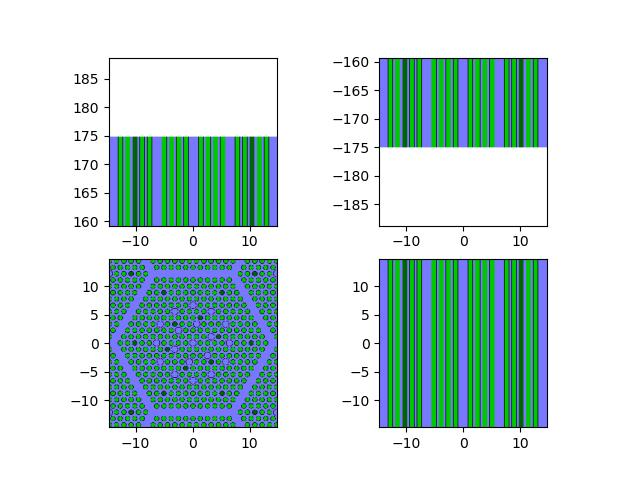
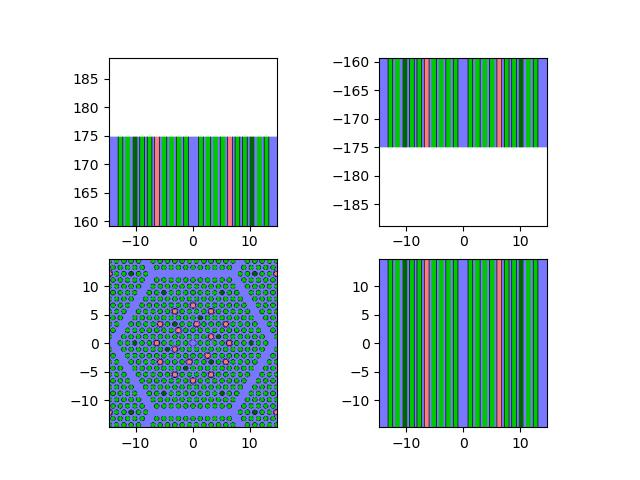
absorber added

diff --git a/models/utils/geometry.py b/models/utils/geometry.py
@@ -3,37 +3,48 @@ from math import sqrt
 import openmc
 import numpy as np
 
-from .material import fuel_mat, cladding_mat, water_mat, fuel_with_Gd_mat
+from .material import fuel_mat, cladding_mat, water_mat, fuel_with_Gd_mat, absorber_mat
 from .params import GeometryParams
+
 p = GeometryParams()
 
 # Surfaces
 fuel_surf = openmc.ZCylinder(r=p.tvel_fuel_radius)
 cladding_surf = openmc.ZCylinder(r=p.tvel_global_radius)
-water_surf = openmc.hexagonal_prism(edge_length=p.tvel_step/sqrt(3), orientation='y',boundary_type='transmission' )
+water_surf = openmc.hexagonal_prism(edge_length=p.tvel_step / sqrt(3), orientation='y', boundary_type='transmission')
 
-tube_inner_surf=openmc.ZCylinder(r=p.tube_inner_radius)
-tube_outer_surf=openmc.ZCylinder(r=p.tube_outer_radius)
+tube_inner_surf = openmc.ZCylinder(r=p.tube_inner_radius)
+tube_outer_surf = openmc.ZCylinder(r=p.tube_outer_radius)
+
+abs_rod_inner_surf = openmc.ZCylinder(r=p.absorber_rod_inner_radius)
+abs_rod_outer_surf = openmc.ZCylinder(r=p.absorber_rod_outer_radius)
 
 top_surf = openmc.ZPlane(z0=p.tvel_heigh / 2)
 bottom_surf = openmc.ZPlane(z0=-p.tvel_heigh / 2)
 
-TVS_hex_lat_surf = openmc.hexagonal_prism(edge_length=p.TVS_edge_length, orientation=p.orientation, boundary_type='transmission')
+TVS_hex_lat_surf = openmc.hexagonal_prism(edge_length=p.TVS_edge_length, orientation=p.orientation,
+                                          boundary_type='transmission')
 
-hex_lat_surf_1 = openmc.hexagonal_prism(edge_length=p.TVS_edge_length, orientation=p.orientation, boundary_type='vacuum',
-                                        origin=(0,p.TVS_edge_length*sqrt(3)))
-hex_lat_surf_4 = openmc.hexagonal_prism(edge_length=p.TVS_edge_length, orientation=p.orientation,boundary_type='vacuum',
-                                        origin=(0,-p.TVS_edge_length*sqrt(3)))
+hex_lat_surf_1 = openmc.hexagonal_prism(edge_length=p.TVS_edge_length, orientation=p.orientation,
+                                        boundary_type='vacuum',
+                                        origin=(0, p.TVS_edge_length * sqrt(3)))
+hex_lat_surf_4 = openmc.hexagonal_prism(edge_length=p.TVS_edge_length, orientation=p.orientation,
+                                        boundary_type='vacuum',
+                                        origin=(0, -p.TVS_edge_length * sqrt(3)))
 
-hex_lat_surf_2 = openmc.hexagonal_prism(edge_length=p.TVS_edge_length, orientation=p.orientation,boundary_type='vacuum',
-                                        origin=(p.TVS_edge_length*1.5,p.TVS_edge_length*sqrt(3)/2))
-hex_lat_surf_3 = openmc.hexagonal_prism(edge_length=p.TVS_edge_length, orientation=p.orientation,boundary_type='vacuum',
-                                        origin=(p.TVS_edge_length*1.5,-p.TVS_edge_length*sqrt(3)/2))
+hex_lat_surf_2 = openmc.hexagonal_prism(edge_length=p.TVS_edge_length, orientation=p.orientation,
+                                        boundary_type='vacuum',
+                                        origin=(p.TVS_edge_length * 1.5, p.TVS_edge_length * sqrt(3) / 2))
+hex_lat_surf_3 = openmc.hexagonal_prism(edge_length=p.TVS_edge_length, orientation=p.orientation,
+                                        boundary_type='vacuum',
+                                        origin=(p.TVS_edge_length * 1.5, -p.TVS_edge_length * sqrt(3) / 2))
 
-hex_lat_surf_5 = openmc.hexagonal_prism(edge_length=p.TVS_edge_length, orientation=p.orientation,boundary_type='vacuum',
-                                        origin=(-p.TVS_edge_length*1.5,-p.TVS_edge_length*sqrt(3)/2))
-hex_lat_surf_6 = openmc.hexagonal_prism(edge_length=p.TVS_edge_length, orientation=p.orientation,boundary_type='vacuum',
-                                        origin=(-p.TVS_edge_length*1.5,p.TVS_edge_length*sqrt(3)/2))
+hex_lat_surf_5 = openmc.hexagonal_prism(edge_length=p.TVS_edge_length, orientation=p.orientation,
+                                        boundary_type='vacuum',
+                                        origin=(-p.TVS_edge_length * 1.5, -p.TVS_edge_length * sqrt(3) / 2))
+hex_lat_surf_6 = openmc.hexagonal_prism(edge_length=p.TVS_edge_length, orientation=p.orientation,
+                                        boundary_type='vacuum',
+                                        origin=(-p.TVS_edge_length * 1.5, p.TVS_edge_length * sqrt(3) / 2))
 
 hex_lat_surf = TVS_hex_lat_surf | hex_lat_surf_1 | hex_lat_surf_2 | hex_lat_surf_3 | hex_lat_surf_4 | hex_lat_surf_5 | hex_lat_surf_6
 
@@ -66,27 +77,45 @@ water_with_Gd_cell = openmc.Cell(fill=water_mat, region=+cladding_surf & water_s
 tvel_with_Gd_universe = openmc.Universe(cells=[fuel_with_Gd_cell, cladding_with_Gd_cell, water_with_Gd_cell])
 
 # 1.3 tube in water
-tube_cladding_cell = openmc.Cell(fill=cladding_mat, region=+tube_inner_surf & -tube_outer_surf & +bottom_surf & -top_surf)
+tube_cladding_cell = openmc.Cell(fill=cladding_mat,
+                                 region=+tube_inner_surf & -tube_outer_surf & +bottom_surf & -top_surf)
 tube_water_region = -tube_inner_surf | +tube_outer_surf & water_surf
 tube_water_cell = openmc.Cell(fill=water_mat, region=tube_water_region & +bottom_surf & -top_surf)
 
-tube_universe = openmc.Universe(cells=[tube_water_cell, tube_cladding_cell])
+empty_tube_universe = openmc.Universe(cells=[tube_water_cell, tube_cladding_cell])
+
+# 1.4 absorber in tube
+absorber_cell = openmc.Cell(fill=absorber_mat, region=-abs_rod_inner_surf & +bottom_surf & -top_surf)
+absorber_cladding_cell = openmc.Cell(fill=cladding_mat,
+                                     region=-abs_rod_outer_surf & +abs_rod_inner_surf & +bottom_surf & -top_surf)
+
+abs_tube_water_inner_cell= openmc.Cell(fill=water_mat, region=+abs_rod_outer_surf & -tube_inner_surf & +bottom_surf & -top_surf)
+
+abs_tube_cladding_cell = openmc.Cell(fill=cladding_mat,
+                                     region=+tube_inner_surf & -tube_outer_surf & +bottom_surf & -top_surf)
+
+abs_tube_water_outer_cell = openmc.Cell(fill=water_mat, region=+tube_outer_surf & water_surf & +bottom_surf & -top_surf)
+
+absorber_tube_universe = openmc.Universe(
+    cells=[absorber_cell, absorber_cladding_cell, abs_tube_water_inner_cell, abs_tube_cladding_cell,abs_tube_water_outer_cell])
 
 # 2. 1 TVS lattice
 TVS_hex_lat = openmc.HexLattice()
-TVS_hex_lat.orientation=p.orientation
-TVS_hex_lat.center = (0,0)
+TVS_hex_lat.orientation = p.orientation
+TVS_hex_lat.center = (0, 0)
 TVS_hex_lat.pitch = [p.tvel_step]
 
-TVS_lat_center = [tube_universe]
+TVS_lat_center = [empty_tube_universe]
 TVS_lat_rings = []
 for i in range(1, p.n_tvel_rows):
-    TVS_lat_rings.append([tvel_universe]*6*i)
-TVS_lat_rings[2] = [tvel_universe, tvel_universe, tube_universe]*6
-TVS_lat_rings[3] = [tvel_universe, tvel_universe, tvel_universe, tvel_with_Gd_universe]*6
-TVS_lat_rings[4] = [tube_universe, tvel_universe, tvel_universe, tvel_universe, tvel_universe]*6
-TVS_lat_rings[5] = [ tvel_universe, tvel_universe, tvel_universe, tube_universe, tvel_universe, tvel_universe]*6
-TVS_lat_rings[7] = [tvel_with_Gd_universe, tvel_universe, tvel_universe, tvel_universe, tvel_universe, tvel_universe, tvel_universe, tvel_universe]*6
+    TVS_lat_rings.append([tvel_universe] * 6 * i)
+TVS_lat_rings[2] = [tvel_universe, tvel_universe, absorber_tube_universe] * 6
+TVS_lat_rings[3] = [tvel_universe, tvel_universe, tvel_universe, tvel_with_Gd_universe] * 6
+TVS_lat_rings[4] = [absorber_tube_universe, tvel_universe, tvel_universe, tvel_universe, tvel_universe] * 6
+TVS_lat_rings[5] = [tvel_universe, tvel_universe, tvel_universe, absorber_tube_universe, tvel_universe,
+                    tvel_universe] * 6
+TVS_lat_rings[7] = [tvel_with_Gd_universe, tvel_universe, tvel_universe, tvel_universe, tvel_universe, tvel_universe,
+                    tvel_universe, tvel_universe] * 6
 TVS_lat_rings.reverse()
 TVS_hex_lat.universes = [*TVS_lat_rings, TVS_lat_center]
 TVS_hex_lat.outer = TVS_container_universe
@@ -99,12 +128,12 @@ TVS_universe = openmc.Universe(cells=[TVS_lat_cell])
 # 7 TVS lattice
 
 hex_lat = openmc.HexLattice(lattice_id=228)
-hex_lat.orientation='y'
-hex_lat.center = (0,0)
-hex_lat.pitch = [p.TVS_edge_length*sqrt(3)]
+hex_lat.orientation = 'y'
+hex_lat.center = (0, 0)
+hex_lat.pitch = [p.TVS_edge_length * sqrt(3)]
 
 lat_center = [TVS_universe]
-lat_ring = [TVS_universe]*6
+lat_ring = [TVS_universe] * 6
 hex_lat.universes = [lat_ring, lat_center]
 hex_lat.outer = container_universe
 

diff --git a/main.py b/main.py
@@ -21,7 +21,7 @@ if __name__ == "__main__":
     params = GeometryParams()
 
     # Plotting by universe...
-    colors = {water_mat: (120, 120, 255), cladding_mat: 'black', fuel_mat: (0,200,0), fuel_with_Gd_mat:(0,100,0)}
+    colors = {water_mat: (120, 120, 255), cladding_mat: 'black', fuel_mat: (0,200,0), fuel_with_Gd_mat:(0,100,0), absorber_mat:(250,125,125)}
     color_data = dict(color_by='material', colors=colors)
     width = (params.TVS_edge_length * 2.1, params.TVS_edge_length * 2.1)
 

diff --git a/models/utils/params.py b/models/utils/params.py
@@ -14,6 +14,9 @@ class GeometryParams:
     tube_outer_radius = 1.26 / 2
     tube_inner_radius = 1.26 / 2 - 0.085
 
+    absorber_rod_inner_radius = tvel_fuel_radius
+    absorber_rod_outer_radius = tvel_global_radius
+
     def __init__(self):
         self.TVS_edge_length = self.tvel_step * self.n_tvel_rows
         # print(self.TVS_edge_length)
